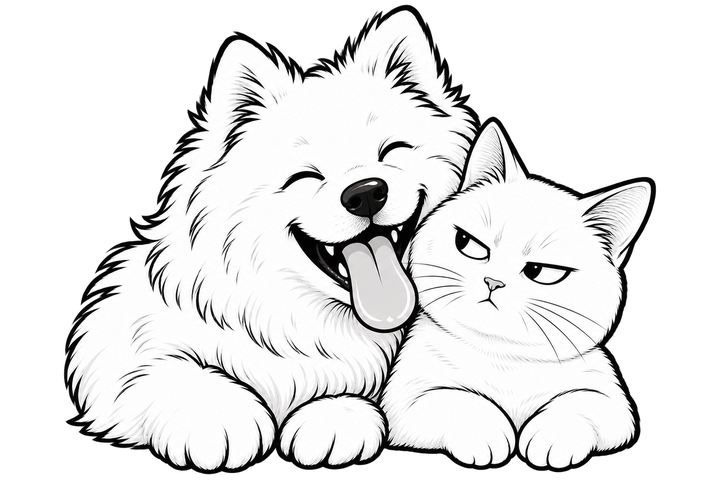
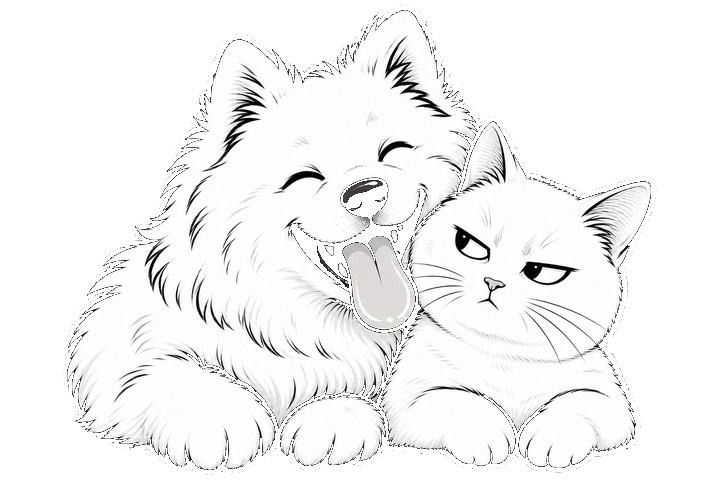
Show mascot clips at 75% viewport with transparent media. (#122)
Remove the forced black/white stage behind welcome, register,
sponsor, confused, and the header mark so PNG/WebP alpha shows
through the page. Default assets knock out studio fill.

diff --git a/v3/public/admin.html b/v3/public/admin.html
@@ -50,7 +50,7 @@
       width: 140px;
       height: 100px;
       object-fit: contain;
-      background: var(--ink);
+      background: transparent;
       border: 1px solid var(--line);
       border-radius: 8px;
     }
@@ -347,7 +347,7 @@
       <div id="site" class="admin-panel" data-admin-panel="site">
 <section class="card">
       <h2>吉比形象／Logo</h2>
-      <p class="hint">中文名仍是「吉比租房物件追蹤」。英文名 JibbyRentH 寫在標誌旁邊，圖檔只用動物線稿、不要再疊其他英文品牌字。黑底角色圖只給感謝／疑惑短片用，避免跟找房列表搶視線。之後可再上傳歡迎、註冊、贊助、連續無效操作的短片。</p>
+      <p class="hint">中文名仍是「吉比租房物件追蹤」。英文名 JibbyRentH 寫在標誌旁邊，圖檔只用動物線稿、不要再疊其他英文品牌字。圓標與歡迎／註冊／贊助／疑惑都可用透明底；頁面不會再墊黑底或白底。</p>
       <form id="brandForm">
         <label class="checks"><input type="checkbox" id="brandEnabled" checked /> 在站台套用這套形象</label>
         <label class="checks"><input type="checkbox" id="brandHeader" checked /> 頁首顯示圓標</label>
@@ -358,7 +358,7 @@
         <input id="brandConfusedN" type="number" min="3" max="20" value="6" />
         <div class="brand-preview" id="brandPreview"></div>
         <h3 style="margin:16px 0 8px;font-size:16px">上傳替代檔</h3>
-        <p class="hint">圓標請用淺底線稿。歡迎／註冊／贊助／疑惑可傳 GIF、WebP、WebM 或 MP4（8MB 內）。</p>
+        <p class="hint">圓標請傳透明底 PNG／WebP（線稿即可）。歡迎／註冊／贊助／疑惑會放到約 75% 畫面，同樣可用透明底 PNG、WebP、GIF、WebM 或 MP4（8MB 內）。MP4 通常沒有透明軌，若要透底請用 PNG／WebP／WebM。</p>
         <div class="row">
           <label>圓標<input type="file" id="brandFileMark" accept="image/*" /></label>
           <label>歡迎<input type="file" id="brandFileWelcome" accept="image/*,video/webm,video/mp4" /></label>
@@ -1682,6 +1682,6 @@
       setMsg("memberMsg", error.message || "載入失敗");
     });
   </script>
-  <footer class="site-footer">reversal play tech | 逆遊科技 <span class="site-ver" style="color:var(--muted);font-size:11px">ver. 3.35</span></footer>
+  <footer class="site-footer">reversal play tech | 逆遊科技 <span class="site-ver" style="color:var(--muted);font-size:11px">ver. 3.36</span></footer>
 </body>
 </html>

diff --git a/v3/test/brand-mascot.test.js b/v3/test/brand-mascot.test.js
@@ -17,9 +17,10 @@ const publicDir = path.join(dir, "../public");
 test("bundled mark exists without Pawprints filename and English name is JibbyRentH", () => {
   assert.equal(APP_NAME, "吉比租房物件追蹤");
   assert.equal(APP_NAME_EN, "JibbyRentH");
-  assert.equal(APP_VERSION, "3.35");
+  assert.equal(APP_VERSION, "3.36");
   assert.equal(existsSync(path.join(publicDir, "brand/mark.png")), true);
   assert.equal(existsSync(path.join(publicDir, "brand/confused.webm")), true);
+  assert.equal(existsSync(path.join(publicDir, "brand/walk.webp")), true);
   assert.equal(existsSync(path.join(publicDir, "icons/icon-192.png")), true);
   const html = readFileSync(path.join(publicDir, "index.html"), "utf8");
   const login = readFileSync(path.join(publicDir, "login.html"), "utf8");
@@ -47,4 +48,14 @@ test("brand URLs stay on this site and Pawprints cannot be the English name", ()
   assert.equal(next.markUrl, defaultBrandMascot().markUrl);
   assert.equal(next.clips.confused.url, defaultBrandMascot().clips.confused.url);
   assert.match(next.clips.confused.url, /confused\.webm/);
+  assert.match(defaultBrandMascot().clips.welcome.url, /walk\.webp/);
+  const tokens = readFileSync(path.join(publicDir, "tokens.css"), "utf8");
+  assert.match(tokens, /width: min\(75vw, 75vh\)/);
+  assert.match(tokens, /max-height: 75vh/);
+  assert.match(tokens, /\.jibby-mascot-media img,[\s\S]*background: transparent/);
+  assert.doesNotMatch(tokens, /background: #111/);
+  const admin = readFileSync(path.join(publicDir, "admin.html"), "utf8");
+  assert.match(admin, /透明底/);
+  assert.match(admin, /75% 畫面/);
+  assert.doesNotMatch(admin, /background: var\(--ink\)/);
 });

diff --git a/v3/public/tokens.css b/v3/public/tokens.css
@@ -82,32 +82,41 @@
 }
 .jibby-mascot {
   position: fixed;
-  right: 16px;
-  bottom: 72px;
+  inset: 0;
   z-index: 240;
-  width: min(280px, calc(100vw - 28px));
+  display: flex;
+  align-items: center;
+  justify-content: center;
+  padding: 12px;
+  background: transparent;
 }
+.jibby-mascot[hidden] { display: none !important; }
 .jibby-mascot-card {
   position: relative;
-  background: var(--paper);
-  border: 1px solid var(--line);
-  border-radius: var(--radius-lg);
-  padding: 12px 14px 14px;
+  width: min(75vw, 75vh);
+  max-width: 75vw;
+  background: transparent;
+  border: 0;
+  border-radius: 0;
+  padding: 0;
 }
 .jibby-mascot-close {
   position: absolute;
-  top: 6px;
-  right: 6px;
+  top: -4px;
+  right: -4px;
+  z-index: 1;
   min-width: 36px;
   width: 36px;
   height: 36px;
   padding: 0;
+  background: var(--paper);
+  border: 1px solid var(--line);
 }
 .jibby-mascot-media {
-  margin: 4px 18px 8px 0;
-  border-radius: 8px;
-  overflow: hidden;
-  background: var(--ink);
+  margin: 0;
+  border-radius: 0;
+  overflow: visible;
+  background: transparent;
   line-height: 0;
 }
 .jibby-mascot-media img,
@@ -115,9 +124,17 @@
   display: block;
   width: 100%;
   height: auto;
-  max-height: 180px;
+  max-width: 75vw;
+  max-height: 75vh;
   object-fit: contain;
-  background: #111;
+  background: transparent;
+}
+.jibby-mascot-copy {
+  margin: 10px 8px 0;
+  background: var(--paper);
+  border: 1px solid var(--line);
+  border-radius: var(--radius-lg);
+  padding: 10px 12px;
 }
 .jibby-mascot-title {
   margin: 0;

diff --git a/v3/test/branding.test.js b/v3/test/branding.test.js
@@ -7,13 +7,13 @@ import { APP_NAME, APP_VERSION } from "../src/brand.js";
 
 const dir = path.dirname(fileURLToPath(import.meta.url));
 
-test("branding stays 吉比租房物件追蹤 with inconspicuous ver. 3.35", () => {
+test("branding stays 吉比租房物件追蹤 with inconspicuous ver. 3.36", () => {
   assert.equal(APP_NAME, "吉比租房物件追蹤");
-  assert.equal(APP_VERSION, "3.35");
+  assert.equal(APP_VERSION, "3.36");
   for (const rel of ["../public/index.html", "../public/login.html", "../public/admin.html"]) {
     const html = readFileSync(path.join(dir, rel), "utf8");
     assert.match(html, /吉比租房物件追蹤/);
-    assert.match(html, /ver\. 3\.35/);
+    assert.match(html, /ver\. 3\.36/);
     assert.equal(html.includes("開發版"), false);
     assert.doesNotMatch(html, /<h1>[^<]*v3/i);
     assert.doesNotMatch(html, /<title>[^<]*v3/i);

diff --git a/v3/test/index-script.test.js b/v3/test/index-script.test.js
@@ -327,13 +327,13 @@ test("product name is 吉比租房物件追蹤 without v2 開發版 copy", () =>
   assert.equal(html.includes("v2 開發版"), false);
   assert.equal(html.includes("v3 開發版"), false);
   assert.equal(html.includes("與線上版分開的資料庫"), false);
-  assert.match(html, /ver\. 3\.35/);
+  assert.match(html, /ver\. 3\.36/);
   assert.doesNotMatch(html, /<h1>[^<]*v3/i);
   assert.match(login, /<h1>吉比租房物件追蹤<\/h1>/);
   assert.equal(login.includes("v2 開發版"), false);
   assert.equal(login.includes("v3 開發版"), false);
   assert.equal(login.includes("資料與線上版分開"), false);
-  assert.match(login, /ver\. 3\.35/);
+  assert.match(login, /ver\. 3\.36/);
 });
 
 test("MRT is admin-only and guest tour is in the page", () => {

diff --git a/v3/public/mascot.js b/v3/public/mascot.js
@@ -24,11 +24,16 @@
       <div class="jibby-mascot-card">
         <button type="button" class="ghost jibby-mascot-close" id="jibbyMascotClose" aria-label="關閉">×</button>
         <div class="jibby-mascot-media" id="jibbyMascotMedia"></div>
-        <p class="jibby-mascot-title" id="jibbyMascotTitle"></p>
-        <p class="jibby-mascot-body" id="jibbyMascotBody"></p>
+        <div class="jibby-mascot-copy">
+          <p class="jibby-mascot-title" id="jibbyMascotTitle"></p>
+          <p class="jibby-mascot-body" id="jibbyMascotBody"></p>
+        </div>
       </div>`;
     document.body.appendChild(wrap);
     $("jibbyMascotClose").onclick = hide;
+    wrap.addEventListener("click", (ev) => {
+      if (ev.target === wrap) hide();
+    });
   }
 
   function applyChrome() {

diff --git a/v3/public/index.html b/v3/public/index.html
@@ -2608,7 +2608,7 @@
       </form>
     </div>
   </div>
-      <footer class="site-footer">reversal play tech | 逆遊科技 <a href="/spirit.html">本站理念</a> <span class="site-ver">ver. 3.35</span></footer>
+      <footer class="site-footer">reversal play tech | 逆遊科技 <a href="/spirit.html">本站理念</a> <span class="site-ver">ver. 3.36</span></footer>
   <button type="button" class="primary" id="expandPanelBtn" title="功能表展開" aria-label="功能表展開">
     <span class="panel-fab-icon" id="expandPanelIcon">&lt;|&gt;</span>
     <span class="panel-fab-label" id="expandPanelLabel">功能表展開</span>

diff --git a/v3/public/login.html b/v3/public/login.html
@@ -271,7 +271,7 @@
     <p class="ok" id="ok"></p>
     <p class="err" id="err"></p>
     <div class="ad-slot" id="adLogin" hidden></div>
-    <footer class="site-footer">reversal play tech | 逆遊科技 <span class="site-ver" style="color:var(--muted);font-size:11px">ver. 3.35</span></footer>
+    <footer class="site-footer">reversal play tech | 逆遊科技 <span class="site-ver" style="color:var(--muted);font-size:11px">ver. 3.36</span></footer>
   </div>
   <script src="/mascot.js"></script>
   <script>

diff --git a/v3/src/brandMascot.js b/v3/src/brandMascot.js
@@ -9,7 +9,7 @@ export const BRAND_SLOTS = ["mark", "welcome", "register", "sponsor", "confused"
 
 const BUNDLED = {
   mark: "/brand/mark.png",
-  welcome: "/brand/walk.gif",
+  welcome: "/brand/walk.webp",
   register: "/brand/duo.png",
   sponsor: "/brand/heads.png",
   confused: "/brand/confused.webm",

diff --git a/v3/src/brand.js b/v3/src/brand.js
@@ -1,3 +1,3 @@
 export const APP_NAME = "吉比租房物件追蹤";
 export const APP_NAME_EN = "JibbyRentH";
-export const APP_VERSION = "3.35";
+export const APP_VERSION = "3.36";

diff --git a/README.md b/README.md
@@ -51,7 +51,7 @@ npm run start:v2
 
 規劃見 `v2/ARCHITECTURE.md`。
 
-**目前線上**另有 `v3/`，埠 5153，資料 `data-v3/v3.db`。規劃見 `v3/ARCHITECTURE.md`。**之後新功能只做 v3**；v2 只維護、不再加功能。畫面上的產品名仍是「吉比租房物件追蹤」，頁尾寫 `ver. 3.35`。
+**目前線上**另有 `v3/`，埠 5153，資料 `data-v3/v3.db`。規劃見 `v3/ARCHITECTURE.md`。**之後新功能只做 v3**；v2 只維護、不再加功能。畫面上的產品名仍是「吉比租房物件追蹤」，頁尾寫 `ver. 3.36`。
 
 公開網址：
 

diff --git a/v3/ARCHITECTURE.md b/v3/ARCHITECTURE.md
@@ -1,4 +1,4 @@
-# 5151 ver. 3.35
+# 5151 ver. 3.36
 
 線上：
 
@@ -6,7 +6,7 @@
 - v2：`v2/`，埠 5152，`https://b5151.reversalplay.me`，資料 `data-v2/v2.db`（不再改功能）
 - 本目錄：埠 5153，`https://c5151.reversalplay.me`，資料 `data-v3/v3.db`
 
-之後功能只做這份。畫面上的產品名仍是「吉比租房物件追蹤」，版本只在頁尾寫 `ver. 3.35`。
+之後功能只做這份。畫面上的產品名仍是「吉比租房物件追蹤」，版本只在頁尾寫 `ver. 3.36`。
 
 ## 這版多了什麼
 
